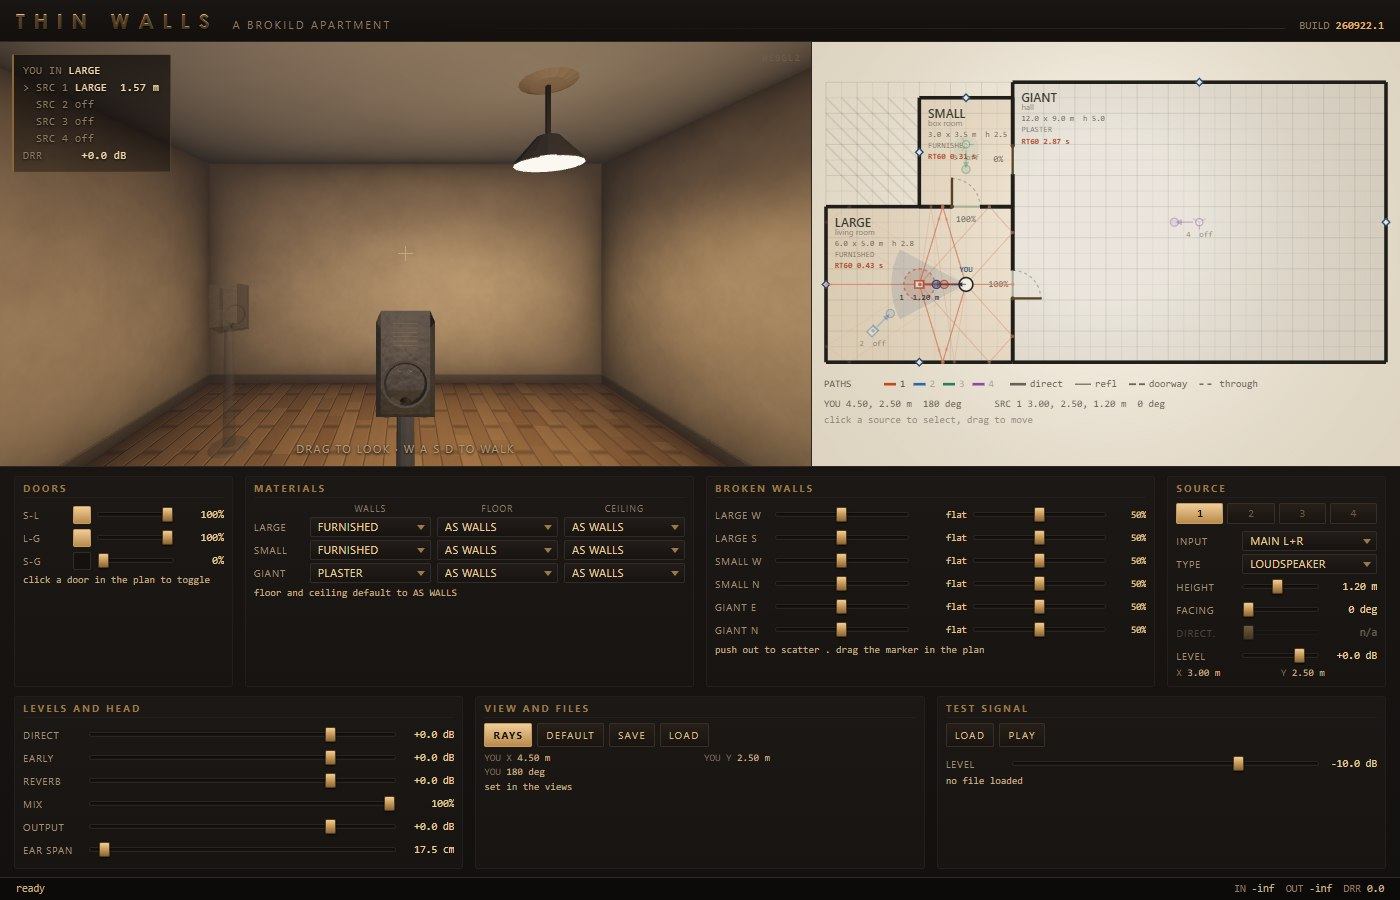
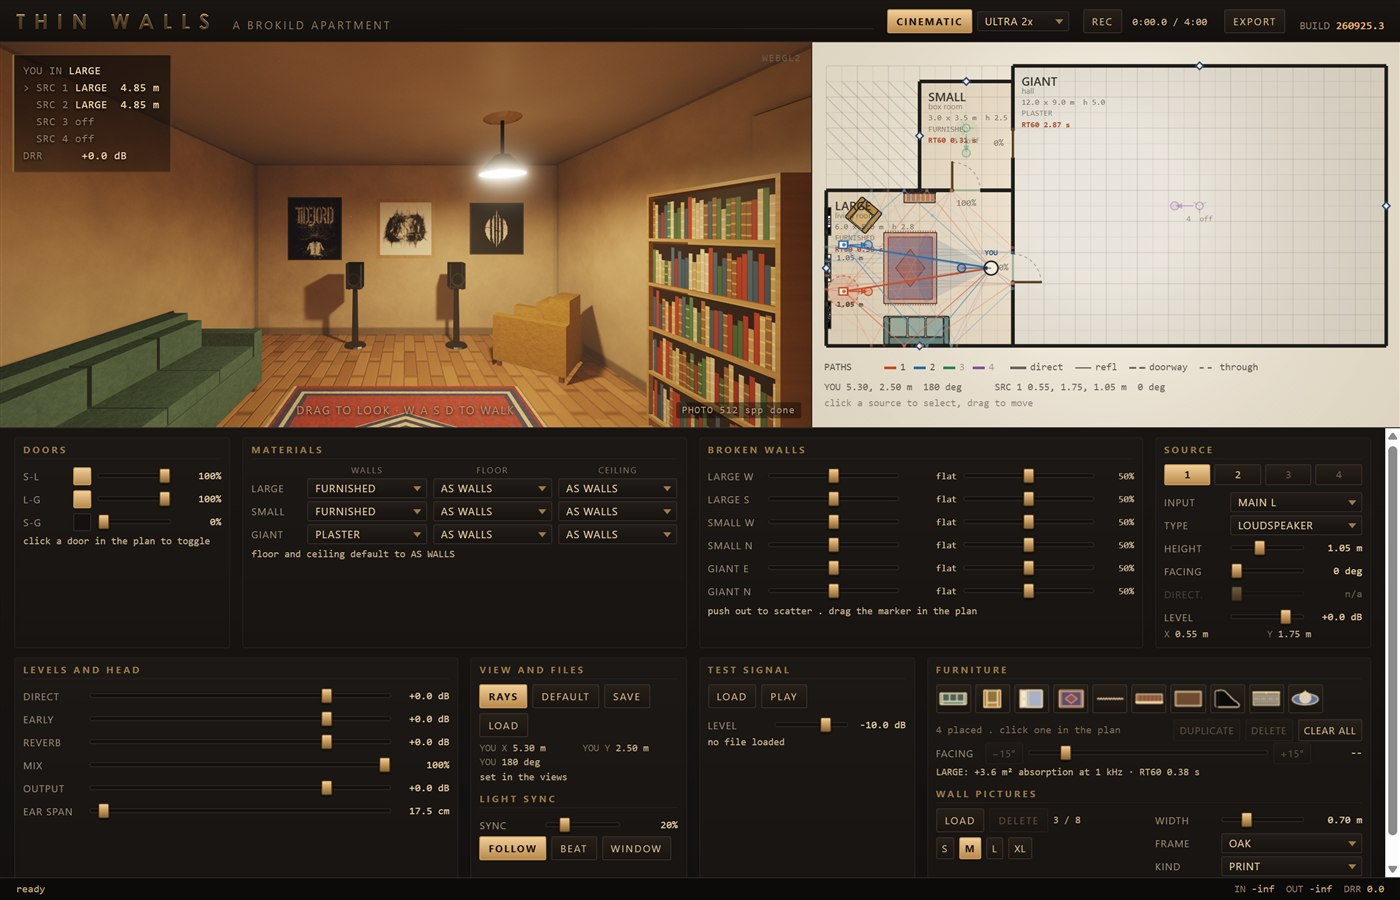
Thin Walls 260925.3: the landing page catches up, and the stands cast shadows
The page gains a section on what 260925 added - furniture you can hear
(with its measured numbers), your own pictures as prints or acoustic panels,
CINEMATIC and PHOTO, light sync, and record/export - with fresh screenshots
from the current build: a furnished listening room in PHOTO, the same room
ordinary vs CINEMATIC, frames of an exported walk. The hero panel shot is
re-taken from 260925.3 itself (the build tag in its corner matches the
download), the card preview is the listening room, the specifications table
gains furniture / pictures / picture / video rows and the measured CPU, and
switched-off sources are described as they are now drawn: solid.

Plugin: PHOTO mode's box model lit each loudspeaker as a cabinet floating
over the floor - the stand's pole and base were missing, so they cast no
shadow (Peter). Every source now carries its stand there, fed or not.

Download and the Brokild Collection re-cut and verified from their public
urls; the page rendered with all 11 images loading.

diff --git a/vst3-apps/thin-walls/index.html b/vst3-apps/thin-walls/index.html
@@ -264,7 +264,7 @@
       <a class="btn btn-primary" href="https://github.com/peterboggild/BrokildApps/releases/download/downloads/Thin-Walls-VST3-win64.zip" download>
         Download for Windows <small>VST3 + standalone &middot; 8.1 MB</small>
       </a>
-      <span class="buildtag">Build 260925.2</span>
+      <span class="buildtag">Build 260925.3</span>
       <a class="btn btn-ghost" href="Thin-Walls-Manual.pdf">
         Handbook <small>PDF, 17 pages</small>
       </a>
@@ -476,6 +476,111 @@
 
 <section class="block">
   <div class="wrap">
+    <h2>Furnish it, hang your pictures, film it</h2>
+    <p class="sub">The flat stopped being empty. Everything you put in it is
+      heard as well as seen &mdash; and what you do in it can be exported as a
+      video with its own sound.</p>
+
+    <figure style="margin-top:0">
+      <img src="img/gallery.jpg" alt="The living room with three framed pictures above a pair of loudspeakers on stands, a sofa, an armchair, a bookcase and a rug" />
+      <figcaption>The living room as a listening room: a stereo pair on
+        stands, three pictures loaded from files and hung on the wall, a sofa,
+        an armchair, a bookcase and a rug &mdash; drawn in PHOTO mode.</figcaption>
+    </figure>
+
+    <h3>Furniture you can hear</h3>
+    <p>
+      Ten pieces &mdash; sofa, armchair, bed, rug, curtain, bookcase, table,
+      grand piano, wardrobe and a standing person &mdash; placed and turned in
+      the plan. Each one acts on the sound four ways, and each is measured:
+    </p>
+    <ul>
+      <li><b>Absorption</b>, per octave band, from the figures the acoustics
+        tables give per object. It adds straight into the room's Eyring decay:
+        furnishing the tiled living room takes its reverberation time at 1 kHz
+        from <b>3.42 s to 1.03 s</b>, and the rendered decay measures 1.13 s. A
+        rug replaces the floor it covers, and the readout shows the engine's own
+        net figure.</li>
+      <li><b>Scattering</b>: a furnished room breaks its reflections up, and
+        what they lose goes to the room's tail, not away.</li>
+      <li><b>Blocking</b>: a leg of a path that passes through a piece bends
+        over, under or round it with the same edge-diffraction law the doorways
+        use. A bookcase between you and a source costs the direct sound
+        <b>18.2 dB at 4 kHz</b> &mdash; matching a hand calculation, in the
+        rendered audio &mdash; and walking out from behind it changes the loss
+        by at most 0.19 dB per centimetre, so an edge never clicks.</li>
+      <li><b>Reflection</b> off hard tops &mdash; a table, a closed piano lid
+        &mdash; that fades off the edge rather than vanishing.</li>
+    </ul>
+
+    <h3>Your own pictures on the walls</h3>
+    <p>
+      Load an image, click a wall in the plan or in the 3D view to hang it,
+      drag it along and up. Four sizes and a width slider, four frames (thin
+      black, oak, gilt, canvas), up to eight pictures, saved inside the project
+      so it opens complete on another computer. A <b>PRINT</b> is only a
+      picture, and the panel says so: a framed print does nothing you can
+      hear. An <b>ACOUSTIC PANEL</b> is your picture printed on a 5 cm fabric
+      absorber, the way real ones are sold &mdash; 4 m&sup2; of it halves the
+      tiled living room's decay at 1 kHz, 3.42 s to 1.69 s.
+    </p>
+
+    <h3>CINEMATIC and PHOTO</h3>
+    <div class="figrow">
+      <figure style="margin-top:0">
+        <img src="img/cine-off.jpg" alt="The living room in the ordinary view" />
+        <figcaption><b>The ordinary view</b>, which still draws nothing at all
+          while nothing changes.</figcaption>
+      </figure>
+      <figure style="margin-top:0">
+        <img src="img/cine-on.jpg" alt="The same room with CINEMATIC on: shadows, soft light, bloom" />
+        <figcaption><b>CINEMATIC</b>: shadows from every lamp and from the
+          hall's window, ambient occlusion, bloom and film tone mapping, at
+          1.5&times; or 2&times; resolution &mdash; about 2 ms of graphics card
+          per frame, never the audio thread.</figcaption>
+      </figure>
+    </div>
+    <p>
+      Stand still and <b>PHOTO</b> takes over: the light is traced, bouncing
+      off the walls and through the open doors, and the picture refines itself
+      over a few seconds until it is done &mdash; then the graphics card rests.
+      The picture at the top of this section is one.
+    </p>
+
+    <h3>Lamps that follow the sound</h3>
+    <p>
+      <b>LIGHT SYNC</b> lets the lamps of each room follow the sound in that
+      room &mdash; a hit flashes, a held chord glows, a sealed room next door
+      stays dark &mdash; or pulse on your DAW's beats. It starts subtle and goes
+      theatrical; at zero the lamps are exactly as they were.
+    </p>
+
+    <h3>Record a walk, export it as a video</h3>
+    <div class="figrow">
+      <figure style="margin-top:0">
+        <img src="img/export.jpg" alt="Frames from an exported video: through the doorway into the hall" />
+        <figcaption>Frames from an exported take: out of the living room,
+          through the doorway, into the hall.</figcaption>
+      </figure>
+      <div>
+        <p style="margin-top:0">
+          <b>REC</b> in the header records up to four minutes: the sound going
+          in, and everything that moves &mdash; your walk, where you look, the
+          doors, the sources, the furniture. <b>EXPORT</b> renders it as an MP4
+          (720p to 4K, 30 or 60 fps, as shown, cinematic or photo quality).
+        </p>
+        <p>
+          The sound is re-rendered offline at full quality and every frame is
+          redrawn from the same recording, so picture and sound cannot drift
+          apart. Files land in <b>Documents\Thin Walls videos</b>.
+        </p>
+      </div>
+    </div>
+  </div>
+</section>
+
+<section class="block">
+  <div class="wrap">
     <h2>Four sources, two kinds, two input buses</h2>
     <p class="sub">Each source has its own place, height, facing, type, level and input.</p>
 
@@ -506,7 +611,7 @@
       <b>AUX</b> is a second input bus, the <b>sidechain</b> in most hosts:
       route another track into it and a second instrument plays in a different
       room of the same flat. A source set to OFF is silent, costs nothing, and
-      stays in the views as a ghost so you can place it before you use it.
+      stays in the views, solid but unlit, so you can place it before you use it.
     </p>
     <p>
       And because walking around a room is not something you can do with one
@@ -578,13 +683,20 @@
       <tr><td>Delay reader</td><td>16-tap windowed sinc; the direct path holds to a tenth of a decibel from 10 Hz to 16 kHz</td></tr>
       <tr><td>Head</td><td>MIT KEMAR compact set, 368 directions, resampled at prepare; EAR SPACING 15 to 100 cm</td></tr>
       <tr><td>Parameters</td><td>65, all automatable &mdash; including every source position, every surface, every broken wall and your own position</td></tr>
-      <tr><td>CPU</td><td>One source about 17 % of a core at 48 kHz; four with every door open, 40 %</td></tr>
+      <tr><td>Furniture</td><td>Ten pieces, up to 24: absorption per octave band into the room's decay, scattering, occlusion by edge diffraction, reflection off hard tops</td></tr>
+      <tr><td>Pictures</td><td>Up to eight, loaded from image files and stored in the project; print (visual only) or acoustic panel (a 5 cm printed absorber)</td></tr>
+      <tr><td>Picture</td><td>Ordinary, CINEMATIC (shadows, ambient occlusion, bloom, 1.5&times; or 2&times; resolution) and PHOTO (traced light, converging while you stand still); LIGHT SYNC for the lamps</td></tr>
+      <tr><td>Video</td><td>Record up to four minutes; export an MP4 (H.264 + AAC) at 720p to 4K, 30 or 60 fps, sound re-rendered offline</td></tr>
+      <tr><td>CPU</td><td>One source about 18 % of a core at 48 kHz; four sources and ten pieces of furniture, about 44 %</td></tr>
       <tr><td>Sample rates</td><td>Any. Bench-tested at 44.1 and 96 kHz.</td></tr>
       <tr><td>Hosts</td><td>Any VST3 host &mdash; developed against Ableton Live 12</td></tr>
       <tr><td>Price</td><td>Free. No account, no registration, no telemetry.</td></tr>
     </table>
     <p style="margin-top:1.2rem; font-size:.88rem; color:var(--text-soft)">
-      Honest limits, also in the handbook: where the rooms are and which doors
+      Honest limits: furniture and pictures act geometrically (absorption,
+      scattering, blocking, reflection) rather than on low-frequency room
+      modes; the handbook in the download predates the furniture, pictures,
+      cinematic view and video export. Also in the handbook: where the rooms are and which doors
       join them cannot change; reflections are specular (only STUDIO scatters)
       and stop at the second order; breaking a wall moves the early reflections
       rather than the room's standing waves; and two sources in one room share

diff --git a/vst3-apps/thin-walls/plugin/test/patch-landing-260925.js b/vst3-apps/thin-walls/plugin/test/patch-landing-260925.js
@@ -1,0 +1,139 @@
+// Landing page for 260925.2: furniture, wall pictures, cinematic + photo,
+// light sync, record and export. Validates every anchor, then writes.
+const fs = require('fs');
+const path = require('path');
+const f = path.join(__dirname, '..', '..', 'index.html');
+let s = fs.readFileSync(f, 'utf8');
+const miss = [];
+function rep(a, b) { const n = s.split(a).length - 1; if (n !== 1) { miss.push(JSON.stringify(a.slice(0, 70)) + ' x' + n); return; } s = s.replace(a, b); }
+
+rep(`<section class="block">
+  <div class="wrap">
+    <h2>Four sources, two kinds, two input buses</h2>`, `<section class="block">
+  <div class="wrap">
+    <h2>Furnish it, hang your pictures, film it</h2>
+    <p class="sub">The flat stopped being empty. Everything you put in it is
+      heard as well as seen &mdash; and what you do in it can be exported as a
+      video with its own sound.</p>
+
+    <figure style="margin-top:0">
+      <img src="img/gallery.jpg" alt="The living room with three framed pictures above a pair of loudspeakers on stands, a sofa, an armchair, a bookcase and a rug" />
+      <figcaption>The living room as a listening room: a stereo pair on
+        stands, three pictures loaded from files and hung on the wall, a sofa,
+        an armchair, a bookcase and a rug &mdash; drawn in PHOTO mode.</figcaption>
+    </figure>
+
+    <h3>Furniture you can hear</h3>
+    <p>
+      Ten pieces &mdash; sofa, armchair, bed, rug, curtain, bookcase, table,
+      grand piano, wardrobe and a standing person &mdash; placed and turned in
+      the plan. Each one acts on the sound four ways, and each is measured:
+    </p>
+    <ul>
+      <li><b>Absorption</b>, per octave band, from the figures the acoustics
+        tables give per object. It adds straight into the room's Eyring decay:
+        furnishing the tiled living room takes its reverberation time at 1 kHz
+        from <b>3.42 s to 1.03 s</b>, and the rendered decay measures 1.13 s. A
+        rug replaces the floor it covers, and the readout shows the engine's own
+        net figure.</li>
+      <li><b>Scattering</b>: a furnished room breaks its reflections up, and
+        what they lose goes to the room's tail, not away.</li>
+      <li><b>Blocking</b>: a leg of a path that passes through a piece bends
+        over, under or round it with the same edge-diffraction law the doorways
+        use. A bookcase between you and a source costs the direct sound
+        <b>18.2 dB at 4 kHz</b> &mdash; matching a hand calculation, in the
+        rendered audio &mdash; and walking out from behind it changes the loss
+        by at most 0.19 dB per centimetre, so an edge never clicks.</li>
+      <li><b>Reflection</b> off hard tops &mdash; a table, a closed piano lid
+        &mdash; that fades off the edge rather than vanishing.</li>
+    </ul>
+
+    <h3>Your own pictures on the walls</h3>
+    <p>
+      Load an image, click a wall in the plan or in the 3D view to hang it,
+      drag it along and up. Four sizes and a width slider, four frames (thin
+      black, oak, gilt, canvas), up to eight pictures, saved inside the project
+      so it opens complete on another computer. A <b>PRINT</b> is only a
+      picture, and the panel says so: a framed print does nothing you can
+      hear. An <b>ACOUSTIC PANEL</b> is your picture printed on a 5 cm fabric
+      absorber, the way real ones are sold &mdash; 4 m&sup2; of it halves the
+      tiled living room's decay at 1 kHz, 3.42 s to 1.69 s.
+    </p>
+
+    <h3>CINEMATIC and PHOTO</h3>
+    <div class="figrow">
+      <figure style="margin-top:0">
+        <img src="img/cine-off.jpg" alt="The living room in the ordinary view" />
+        <figcaption><b>The ordinary view</b>, which still draws nothing at all
+          while nothing changes.</figcaption>
+      </figure>
+      <figure style="margin-top:0">
+        <img src="img/cine-on.jpg" alt="The same room with CINEMATIC on: shadows, soft light, bloom" />
+        <figcaption><b>CINEMATIC</b>: shadows from every lamp and from the
+          hall's window, ambient occlusion, bloom and film tone mapping, at
+          1.5&times; or 2&times; resolution &mdash; about 2 ms of graphics card
+          per frame, never the audio thread.</figcaption>
+      </figure>
+    </div>
+    <p>
+      Stand still and <b>PHOTO</b> takes over: the light is traced, bouncing
+      off the walls and through the open doors, and the picture refines itself
+      over a few seconds until it is done &mdash; then the graphics card rests.
+      The picture at the top of this section is one.
+    </p>
+
+    <h3>Lamps that follow the sound</h3>
+    <p>
+      <b>LIGHT SYNC</b> lets the lamps of each room follow the sound in that
+      room &mdash; a hit flashes, a held chord glows, a sealed room next door
+      stays dark &mdash; or pulse on your DAW's beats. It starts subtle and goes
+      theatrical; at zero the lamps are exactly as they were.
+    </p>
+
+    <h3>Record a walk, export it as a video</h3>
+    <div class="figrow">
+      <figure style="margin-top:0">
+        <img src="img/export.jpg" alt="Frames from an exported video: through the doorway into the hall" />
+        <figcaption>Frames from an exported take: out of the living room,
+          through the doorway, into the hall.</figcaption>
+      </figure>
+      <div>
+        <p style="margin-top:0">
+          <b>REC</b> in the header records up to four minutes: the sound going
+          in, and everything that moves &mdash; your walk, where you look, the
+          doors, the sources, the furniture. <b>EXPORT</b> renders it as an MP4
+          (720p to 4K, 30 or 60 fps, as shown, cinematic or photo quality).
+        </p>
+        <p>
+          The sound is re-rendered offline at full quality and every frame is
+          redrawn from the same recording, so picture and sound cannot drift
+          apart. Files land in <b>Documents\\Thin Walls videos</b>.
+        </p>
+      </div>
+    </div>
+  </div>
+</section>
+
+<section class="block">
+  <div class="wrap">
+    <h2>Four sources, two kinds, two input buses</h2>`);
+
+rep(`stays in the views as a ghost so you can place it before you use it.`,
+    `stays in the views, solid but unlit, so you can place it before you use it.`);
+
+rep(`      <tr><td>CPU</td><td>One source about 17 % of a core at 48 kHz; four with every door open, 40 %</td></tr>`,
+    `      <tr><td>Furniture</td><td>Ten pieces, up to 24: absorption per octave band into the room's decay, scattering, occlusion by edge diffraction, reflection off hard tops</td></tr>
+      <tr><td>Pictures</td><td>Up to eight, loaded from image files and stored in the project; print (visual only) or acoustic panel (a 5 cm printed absorber)</td></tr>
+      <tr><td>Picture</td><td>Ordinary, CINEMATIC (shadows, ambient occlusion, bloom, 1.5&times; or 2&times; resolution) and PHOTO (traced light, converging while you stand still); LIGHT SYNC for the lamps</td></tr>
+      <tr><td>Video</td><td>Record up to four minutes; export an MP4 (H.264 + AAC) at 720p to 4K, 30 or 60 fps, sound re-rendered offline</td></tr>
+      <tr><td>CPU</td><td>One source about 18 % of a core at 48 kHz; four sources and ten pieces of furniture, about 44 %</td></tr>`);
+
+rep(`      Honest limits, also in the handbook: where the rooms are and which doors`,
+    `      Honest limits: furniture and pictures act geometrically (absorption,
+      scattering, blocking, reflection) rather than on low-frequency room
+      modes; the handbook in the download predates the furniture, pictures,
+      cinematic view and video export. Also in the handbook: where the rooms are and which doors`);
+
+if (miss.length) { console.log('NOT WRITTEN:\n  ' + miss.join('\n  ')); process.exit(1); }
+fs.writeFileSync(f, s);
+console.log('written');

diff --git a/vst3-apps/thin-walls/plugin/Source/ui/ui.html b/vst3-apps/thin-walls/plugin/Source/ui/ui.html
@@ -5277,13 +5277,22 @@ function cineBoxes(){
     const zb = c.zb || 0, zt = c.zt || c.h;
     add([it.x, it.y, (zb+zt)/2], normYaw(it.yaw)*Math.PI/180, c.w/2, c.d/2, Math.max(0.01, (zt-zb)/2), FURN_ALB[it.t] || [0.4,0.35,0.3]);
   }
+  /*  Every source, fed or not (they are all drawn solid), WITH its stand: the
+      pole and the base plate cast shadows too. Without them the photo mode
+      lit a cabinet floating over a floor with no shadow under it (Peter). */
+  const STAND = [0.10, 0.10, 0.10];
   for (let n = 1; n <= NSRC; n++){
-    if (!srcActive(n)) continue;
     const room = roomOfPoint(SXn(n), SYn(n));
     const ls = srcTypeIdx(n) === 1;
     const zc = ls ? Math.min(Math.max(SZn(n), 0.20), ROOMS[room].h - 0.24) : Math.min(Math.max(SZn(n), 0.22), ROOMS[room].h - 0.16);
-    if (ls) add([SXn(n), SYn(n), zc], SYAWn(n)*Math.PI/180, 0.13, 0.11, 0.19, [0.05,0.05,0.05]);
-    else add([SXn(n), SYn(n), zc], 0, 0.06, 0.06, 0.06, [0.68,0.67,0.65]);
+    const sx = SXn(n), sy = SYn(n);
+    if (ls) add([sx, sy, zc], SYAWn(n)*Math.PI/180, 0.13, 0.11, 0.19, [0.05,0.05,0.05]);
+    else add([sx, sy, zc], 0, 0.06, 0.06, 0.06, [0.68,0.67,0.65]);
+    const top = ls ? zc - 0.185 : zc - 0.06;          /* where the pole meets what it carries */
+    if (top > 0.10){
+      add([sx, sy, (0.03 + top) / 2], 0, 0.022, 0.022, Math.max(0.01, (top - 0.03) / 2), STAND);
+      add([sx, sy, 0.015], 0, 0.11, 0.11, 0.015, STAND);
+    }
   }
   for (const it of pics){
     const pf = picPlace(it), rec = picImg[it.id];
